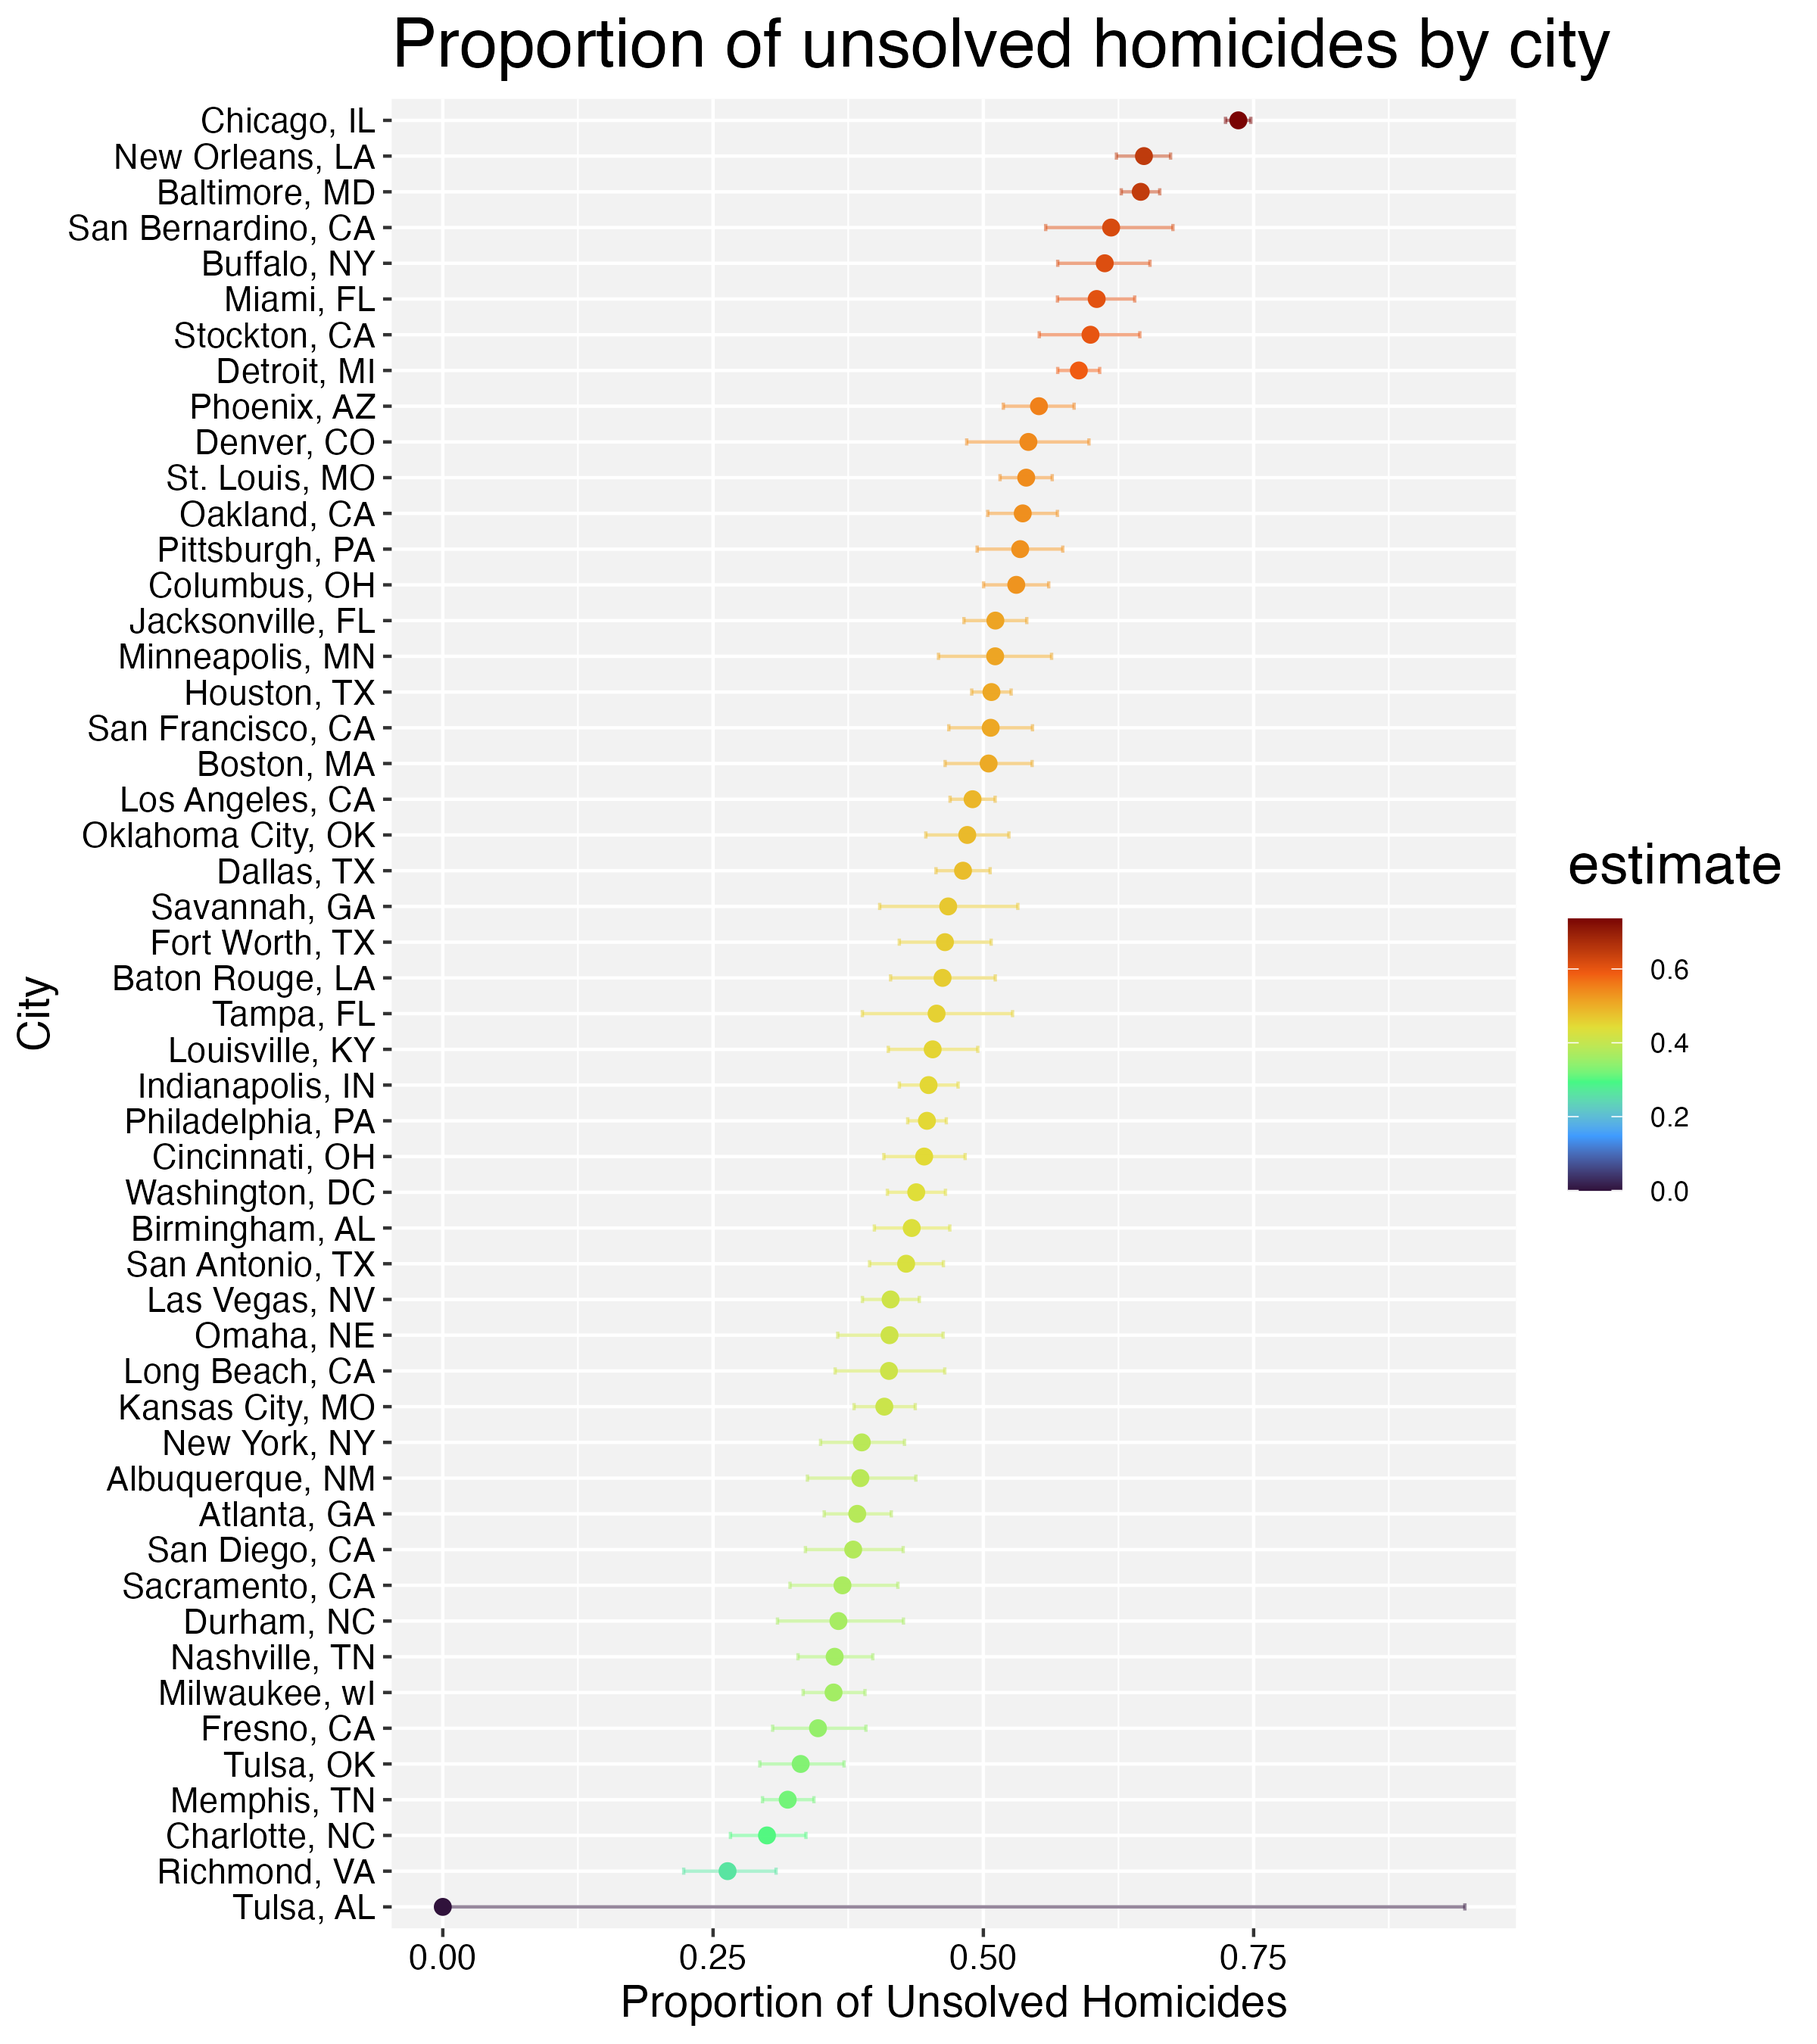
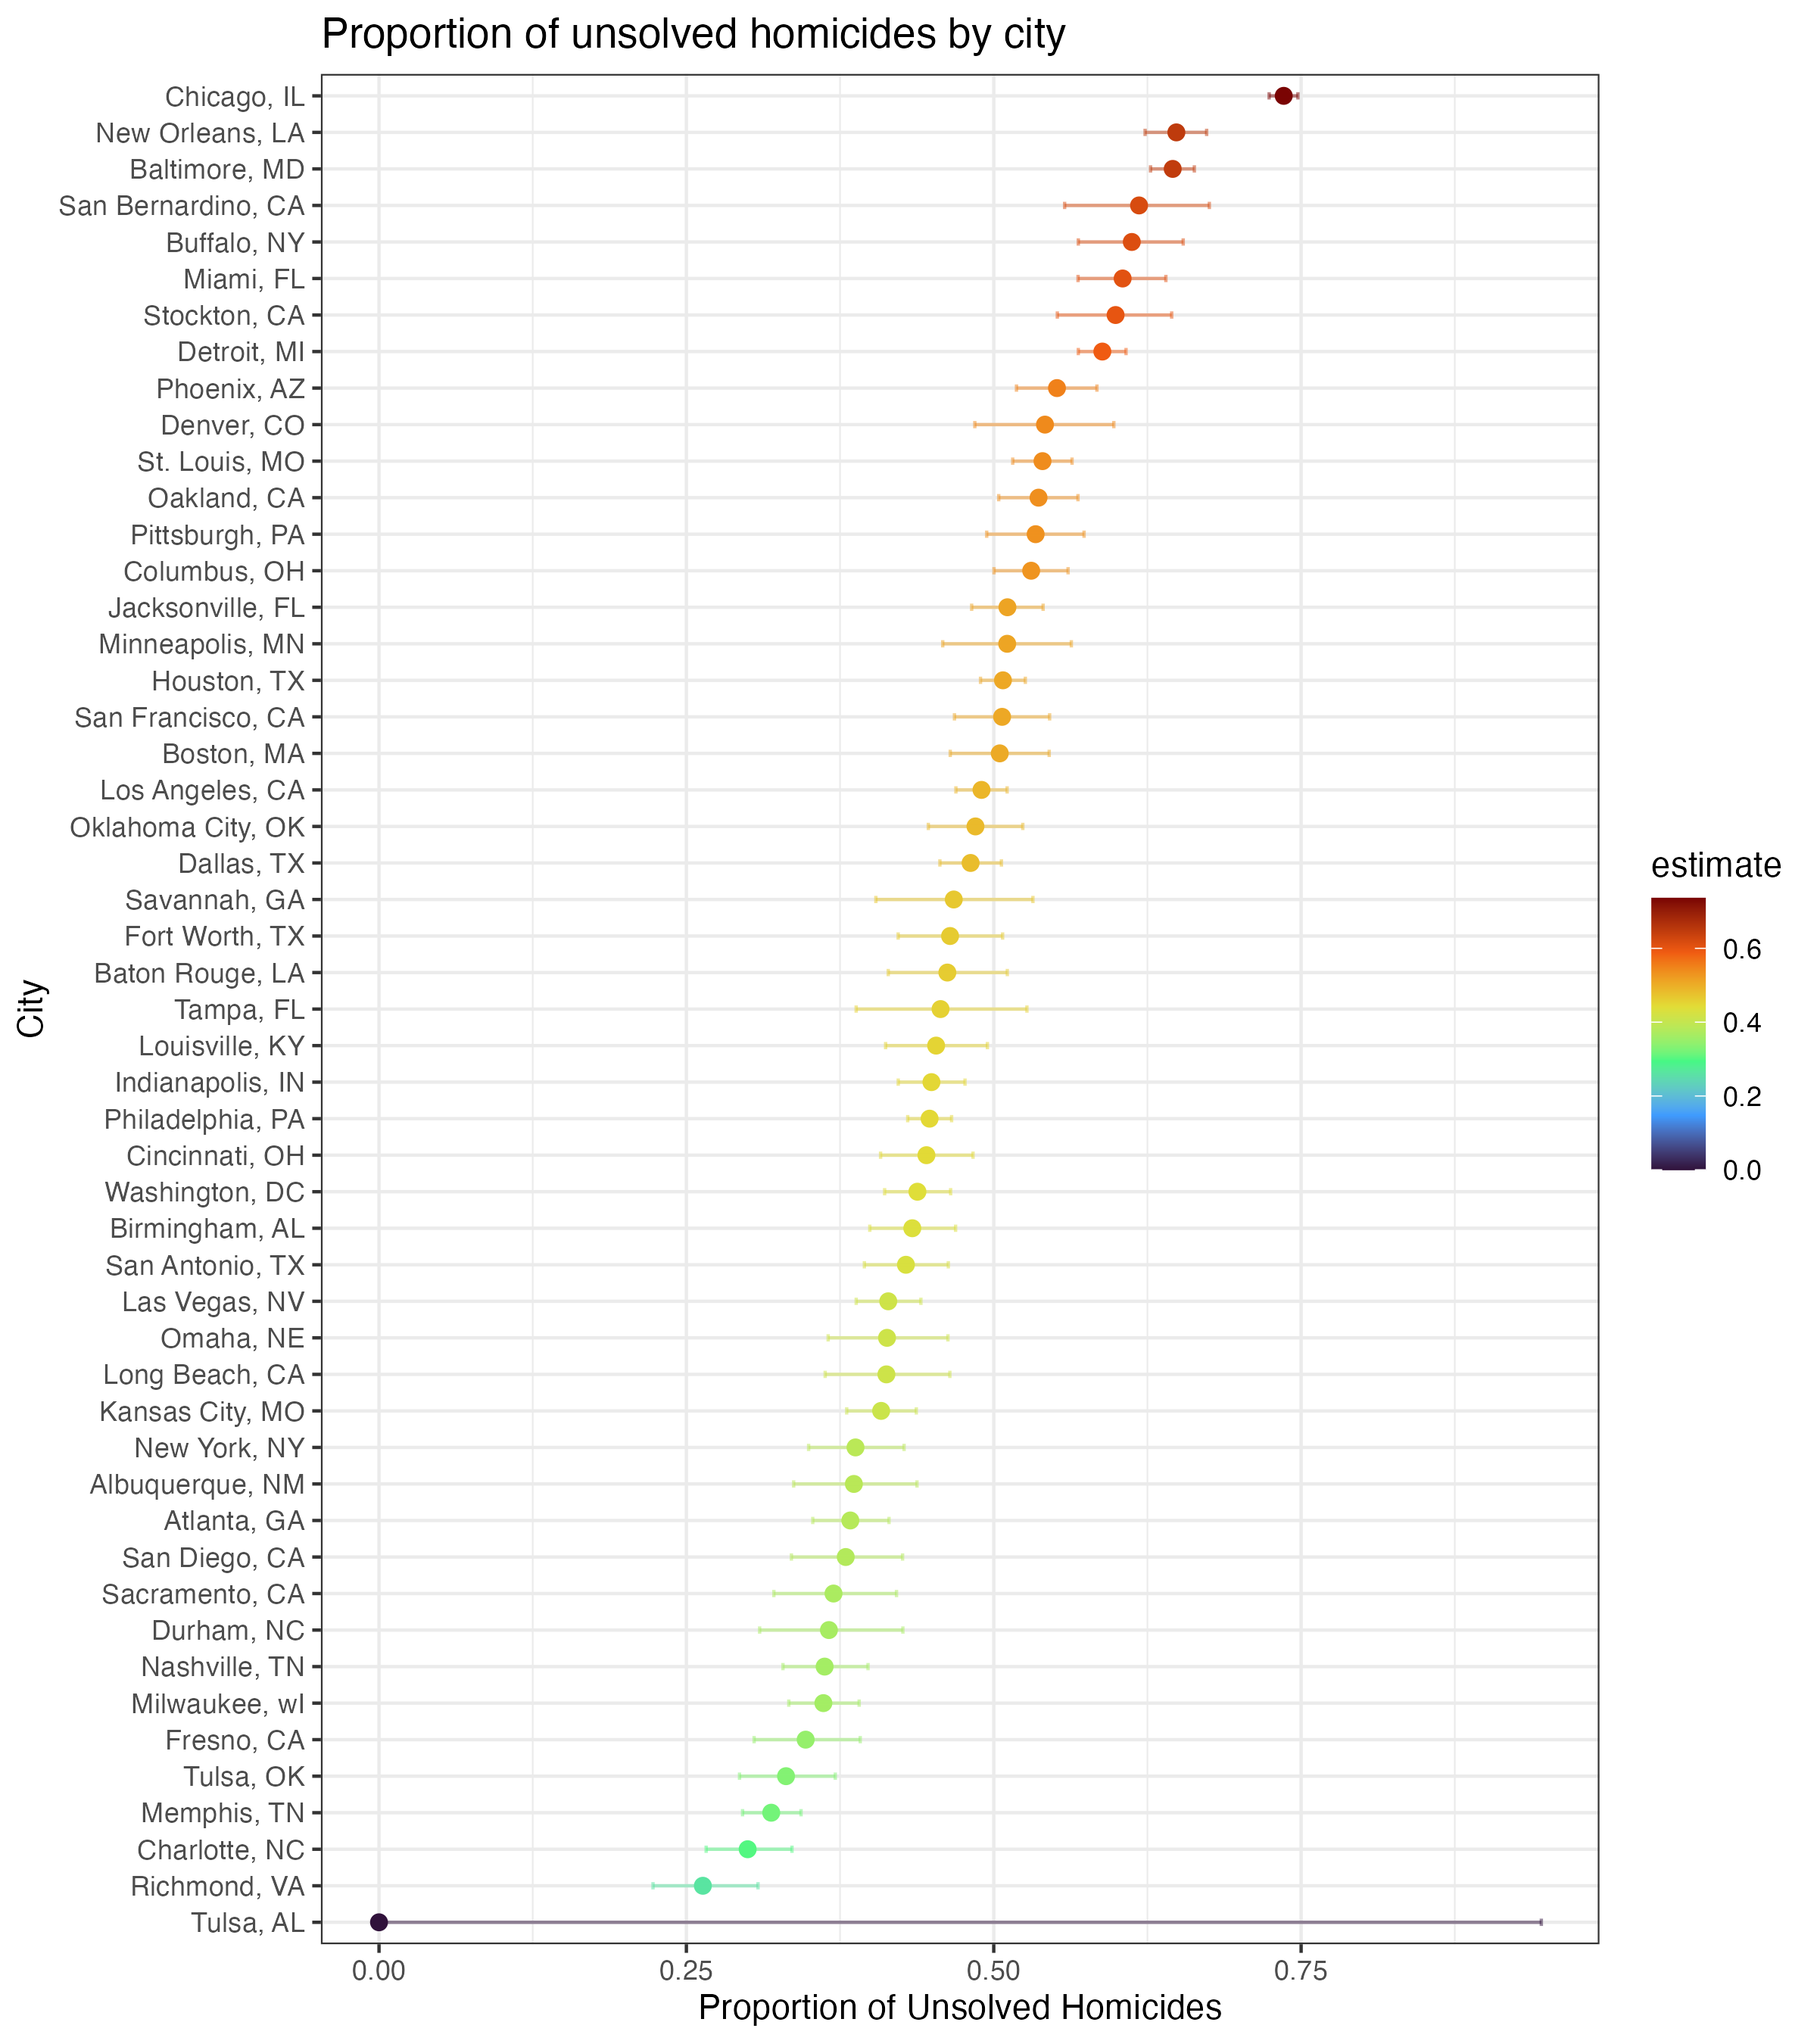
Final formatting shifts and knit for submission

diff --git a/p8105_hw5_csf2135.md b/p8105_hw5_csf2135.md
@@ -232,7 +232,8 @@ plot_unsolved<- df_prop_unsolved  |>
       axis.title = element_text(color = "black", size = 14), 
       axis.text = element_text(color = "black", size = 11), 
       title = element_text(color = "black", size = 18)
-    ) 
+    ) +
+  theme_bw()
 
 plot_unsolved
 ```
@@ -293,7 +294,8 @@ plot_trial<- df_p2_all  |>
       axis.title = element_text(color = "black", size = 14), 
       axis.text = element_text(color = "black", size = 11), 
       title = element_text(color = "black", size = 18), 
-      legend.text = element_text(color = "black", size = 11))
+      legend.text = element_text(color = "black", size = 11))+
+  theme_bw()
 
 plot_trial
 ```
@@ -392,7 +394,8 @@ perc_reject <- df_changing_mu_norm |>
         axis.title = element_text(color = "black", size = 14), 
         axis.text = element_text(color = "black", size = 11), 
         title = element_text(color = "black", size = 18), 
-        legend.text = element_text(color = "black", size = 11))
+        legend.text = element_text(color = "black", size = 11))+
+  theme_bw()
   
 perc_reject
 ```
@@ -429,7 +432,8 @@ estimate_true <- df_changing_mu_norm |>
         axis.title = element_text(color = "black", size = 14), 
         axis.text = element_text(color = "black", size = 11), 
         title = element_text(color = "black", size = 18), 
-        legend.text = element_text(color = "black", size = 11))
+        legend.text = element_text(color = "black", size = 11))+
+  theme_bw()
   
 estimate_true
 ```
